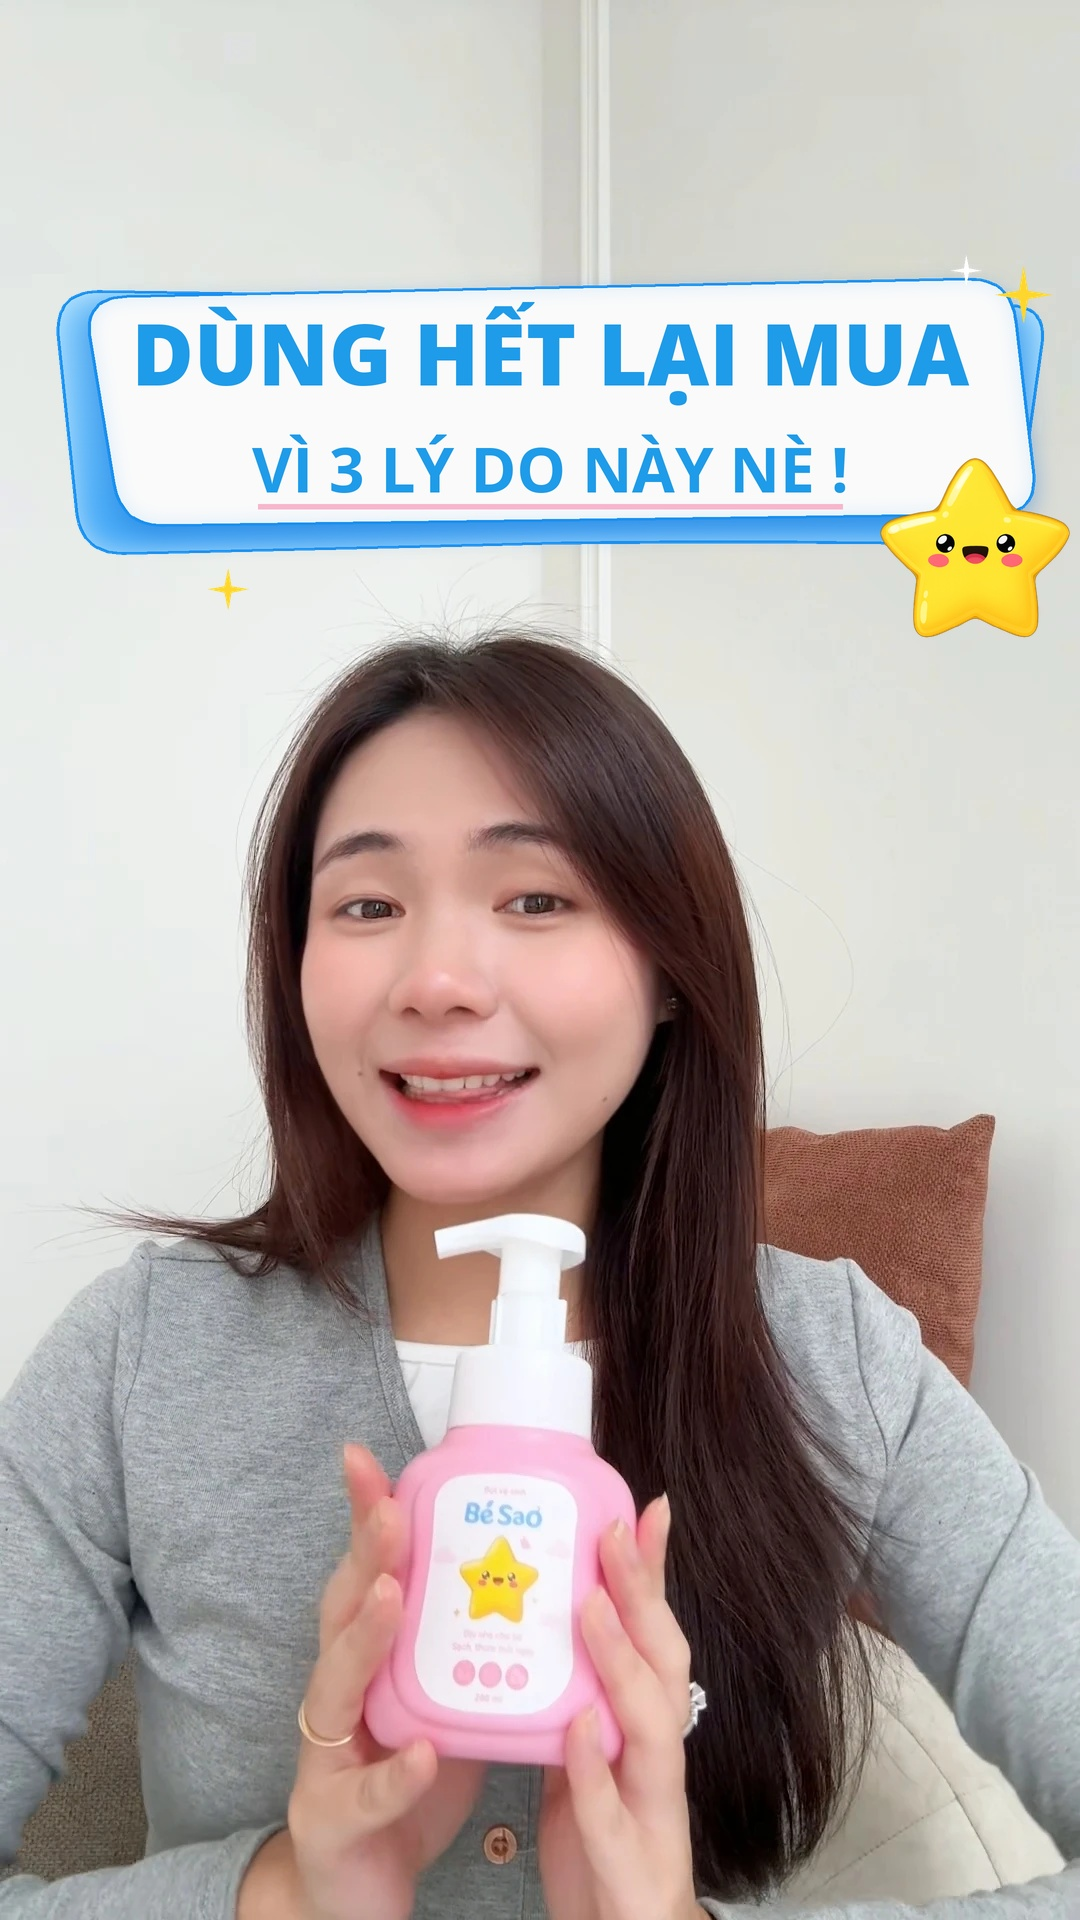
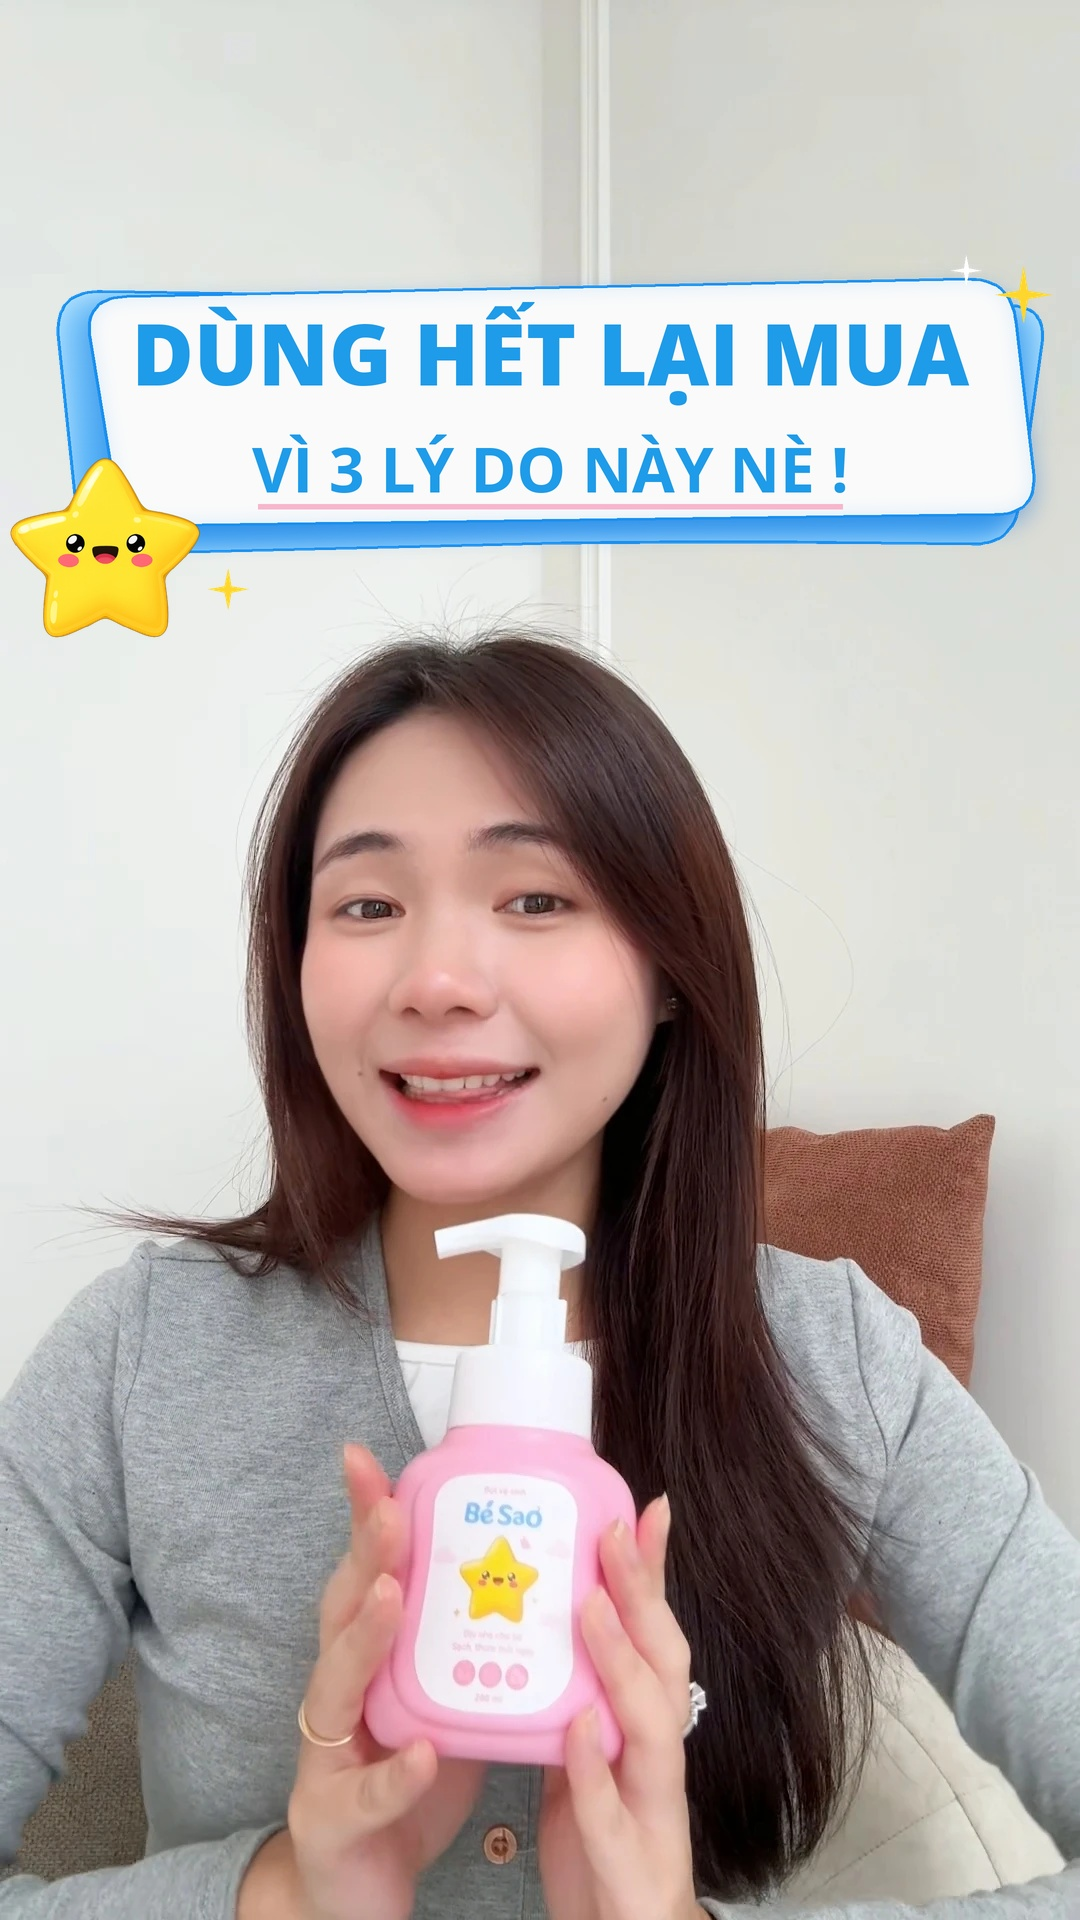
Always keep the star mascot on the left
Remove the automatic switch to the right side; the star stays bottom-left
as in the brand identity unless --sao is passed.

Claude-Session: https://claude.ai/code/session_01Ug3WuR9fbtqxhsVyfjB7mN

Changed region(s): [[0.0, 0.2188, 0.1833, 0.3438], [0.825, 0.2188, 1.0, 0.3438]]

diff --git a/.claude/skills/tao-anh-bia/scripts/tao_anh_bia.py b/.claude/skills/tao-anh-bia/scripts/tao_anh_bia.py
@@ -899,11 +899,7 @@ def main():
                 kq = tim_dinh_dau(nen)
                 if kq:
                     dau, xt, xp = kq
-                    # ngôi sao nằm ngay trên đầu thì chuyển sang phía còn lại
-                    if sao == "trai" and xt < 200:
-                        sao = "phai" if xp < W - 230 else sao
-                    elif sao == "phai" and xp > W - 200:
-                        sao = "trai" if xt > 230 else sao
+                    # ngôi sao luôn ở bên trái theo nhận diện; chỉ đổi khi gọi --sao
                 else:
                     print("Không tự tìm thấy khuôn mặt; nếu khung che đầu hãy chạy lại với --dau <y đỉnh đầu>.")
         if dau is not None:
